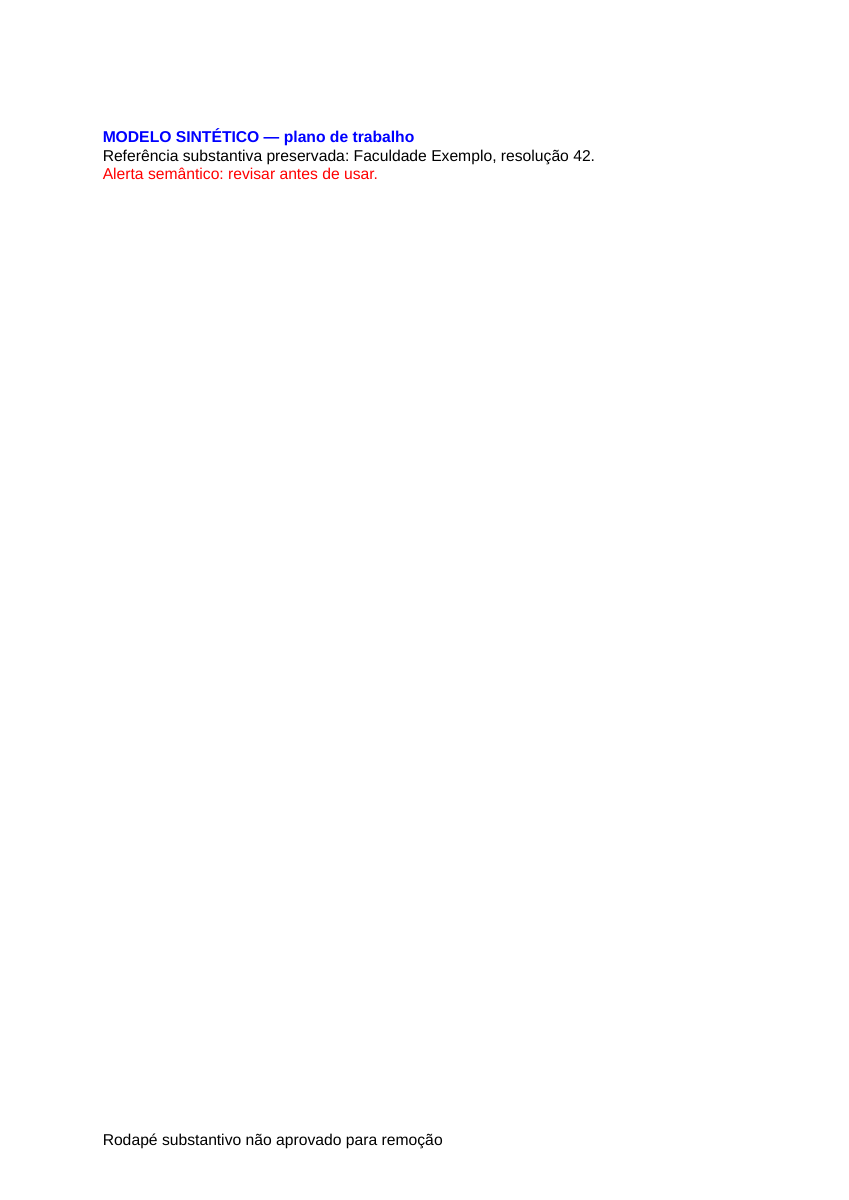
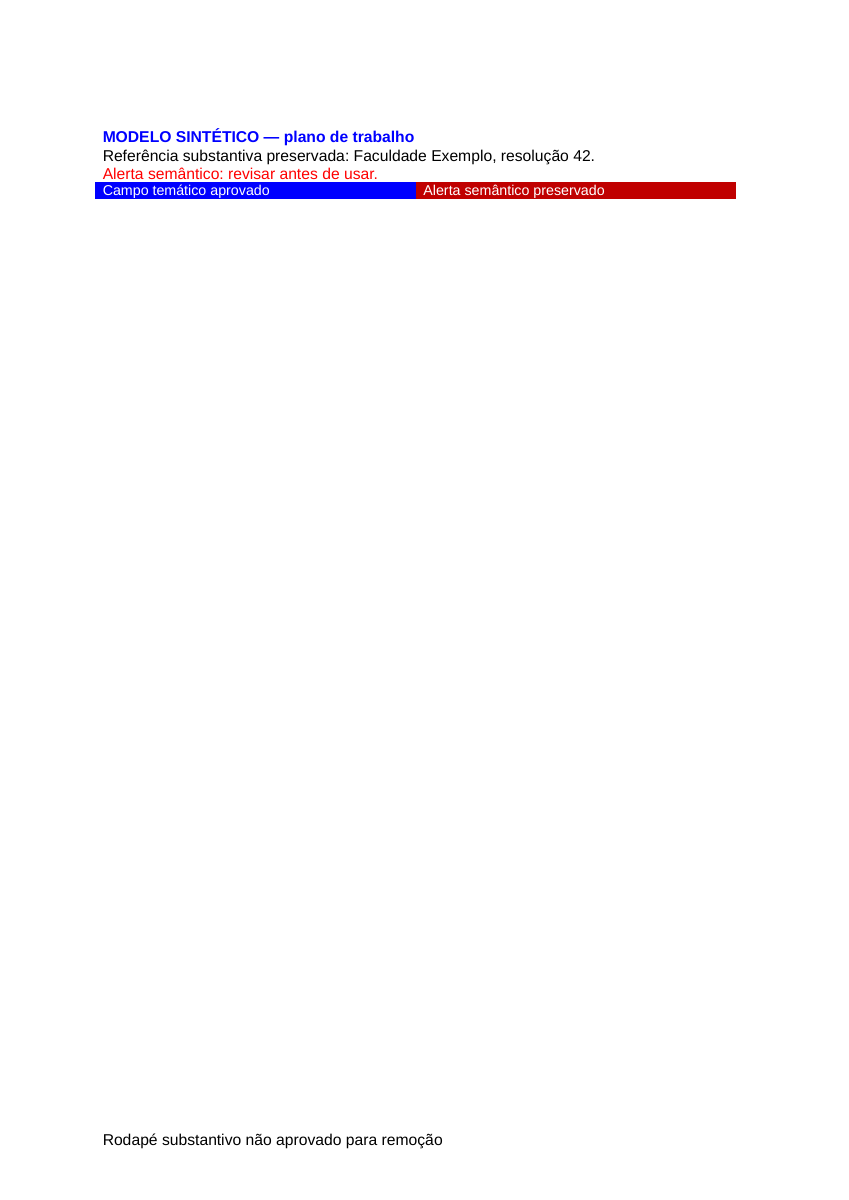
Validate themed table cells alongside preserved semantic alerts

Changed region(s): [[0.0919, 0.1542, 0.8881, 0.185]]

diff --git a/scripts/branding/document-template.test.ts b/scripts/branding/document-template.test.ts
@@ -11,11 +11,11 @@ export async function fixture() {
   const xml: Record<string,string> = {
     '[Content_Types].xml': '<Types xmlns="http://schemas.openxmlformats.org/package/2006/content-types"><Default Extension="rels" ContentType="application/vnd.openxmlformats-package.relationships+xml"/><Default Extension="xml" ContentType="application/xml"/><Override PartName="/word/document.xml" ContentType="application/vnd.openxmlformats-officedocument.wordprocessingml.document.main+xml"/><Override PartName="/word/header1.xml" ContentType="application/vnd.openxmlformats-officedocument.wordprocessingml.header+xml"/><Override PartName="/word/footer1.xml" ContentType="application/vnd.openxmlformats-officedocument.wordprocessingml.footer+xml"/><Override PartName="/word/styles.xml" ContentType="application/vnd.openxmlformats-officedocument.wordprocessingml.styles+xml"/></Types>',
     '_rels/.rels': `<Relationships xmlns="${R}"><Relationship Id="rId1" Type="http://schemas.openxmlformats.org/officeDocument/2006/relationships/officeDocument" Target="word/document.xml"/></Relationships>`,
-    'word/document.xml': `<w:document xmlns:w="${W}" xmlns:r="http://schemas.openxmlformats.org/officeDocument/2006/relationships"><w:body><w:p><w:pPr><w:pStyle w:val="InstitutionAccent"/></w:pPr><w:r><w:t>MODELO SINTÉTICO — plano de trabalho</w:t></w:r></w:p><w:p><w:r><w:t>Referência substantiva preservada: Faculdade Exemplo, resolução 42.</w:t></w:r></w:p><w:p><w:pPr><w:pStyle w:val="SemanticWarning"/></w:pPr><w:r><w:t>Alerta semântico: revisar antes de usar.</w:t></w:r></w:p><w:sectPr><w:headerReference w:type="default" r:id="rIdHeader"/><w:footerReference w:type="default" r:id="rIdFooter"/><w:pgSz w:w="11906" w:h="16838"/><w:pgMar w:top="1800" w:right="1440" w:bottom="1440" w:left="1440" w:header="600" w:footer="720"/></w:sectPr></w:body></w:document>`,
+    'word/document.xml': `<w:document xmlns:w="${W}" xmlns:r="http://schemas.openxmlformats.org/officeDocument/2006/relationships"><w:body><w:p><w:pPr><w:pStyle w:val="InstitutionAccent"/></w:pPr><w:r><w:t>MODELO SINTÉTICO — plano de trabalho</w:t></w:r></w:p><w:p><w:r><w:t>Referência substantiva preservada: Faculdade Exemplo, resolução 42.</w:t></w:r></w:p><w:p><w:pPr><w:pStyle w:val="SemanticWarning"/></w:pPr><w:r><w:t>Alerta semântico: revisar antes de usar.</w:t></w:r></w:p><w:tbl><w:tblPr><w:tblStyle w:val="InstitutionTable"/><w:tblW w:w="9000" w:type="dxa"/></w:tblPr><w:tblGrid><w:gridCol w:w="4500"/><w:gridCol w:w="4500"/></w:tblGrid><w:tr><w:tc><w:tcPr><w:tcW w:w="4500" w:type="dxa"/></w:tcPr><w:p><w:r><w:t>Campo temático aprovado</w:t></w:r></w:p></w:tc><w:tc><w:tcPr><w:tcW w:w="4500" w:type="dxa"/><w:shd w:val="clear" w:fill="C00000"/></w:tcPr><w:p><w:r><w:rPr><w:color w:val="FFFFFF"/></w:rPr><w:t>Alerta semântico preservado</w:t></w:r></w:p></w:tc></w:tr></w:tbl><w:p/><w:sectPr><w:headerReference w:type="default" r:id="rIdHeader"/><w:footerReference w:type="default" r:id="rIdFooter"/><w:pgSz w:w="11906" w:h="16838"/><w:pgMar w:top="1800" w:right="1440" w:bottom="1440" w:left="1440" w:header="600" w:footer="720"/></w:sectPr></w:body></w:document>`,
     'word/_rels/document.xml.rels': `<Relationships xmlns="${R}"><Relationship Id="rIdHeader" Type="http://schemas.openxmlformats.org/officeDocument/2006/relationships/header" Target="header1.xml"/><Relationship Id="rIdFooter" Type="http://schemas.openxmlformats.org/officeDocument/2006/relationships/footer" Target="footer1.xml"/><Relationship Id="rIdStyles" Type="http://schemas.openxmlformats.org/officeDocument/2006/relationships/styles" Target="styles.xml"/></Relationships>`,
     'word/header1.xml': `<w:hdr xmlns:w="${W}"><w:p><w:r><w:t>Cabeçalho antigo sintético</w:t></w:r></w:p></w:hdr>`,
     'word/footer1.xml': `<w:ftr xmlns:w="${W}"><w:p><w:r><w:t>Rodapé substantivo não aprovado para remoção</w:t></w:r></w:p></w:ftr>`,
-    'word/styles.xml': `<w:styles xmlns:w="${W}"><w:style w:type="paragraph" w:styleId="InstitutionAccent"><w:name w:val="InstitutionAccent"/><w:rPr><w:rFonts w:ascii="Liberation Sans"/><w:b/><w:color w:val="0000FF"/></w:rPr></w:style><w:style w:type="paragraph" w:styleId="SemanticWarning"><w:name w:val="SemanticWarning"/><w:rPr><w:color w:val="FF0000"/></w:rPr></w:style></w:styles>`,
+    'word/styles.xml': `<w:styles xmlns:w="${W}"><w:style w:type="paragraph" w:styleId="InstitutionAccent"><w:name w:val="InstitutionAccent"/><w:rPr><w:rFonts w:ascii="Liberation Sans"/><w:b/><w:color w:val="0000FF"/></w:rPr></w:style><w:style w:type="paragraph" w:styleId="SemanticWarning"><w:name w:val="SemanticWarning"/><w:rPr><w:color w:val="FF0000"/></w:rPr></w:style><w:style w:type="table" w:styleId="InstitutionTable"><w:name w:val="InstitutionTable"/><w:tcPr><w:shd w:val="clear" w:fill="0000FF"/></w:tcPr></w:style></w:styles>`,
     'docProps/core.xml': '<cp:coreProperties xmlns:cp="http://schemas.openxmlformats.org/package/2006/metadata/core-properties"/>',
   };
   const files = Object.fromEntries(Object.entries(xml).map(([k,v])=>[k,strToU8(v)]));
@@ -24,7 +24,7 @@ export async function fixture() {
   files['word/media/semantic.png'] = Uint8Array.from(atob(logoData().split(',')[1]),c=>c.charCodeAt(0));
   files['word/charts/chart1.xml'] = strToU8('<c:chartSpace xmlns:c="http://schemas.openxmlformats.org/drawingml/2006/chart"><c:chart><c:title/></c:chart></c:chartSpace>');
   const source = zipSync(files,{mtime:new Date('2000-01-01T00:00:00Z')});
-  const manifest: Manifest = { classification:'reviewed-template', source_sha256:await sha256(source), review_ref:'synthetic-review-1', replace_headers:['word/header1.xml'], clear_footers:[], theme_style_ids:['InstitutionAccent'], preserved_parts_review:{'docProps/core.xml':await sha256(files['docProps/core.xml']), 'word/media/semantic.png':await sha256(files['word/media/semantic.png'])} };
+  const manifest: Manifest = { classification:'reviewed-template', source_sha256:await sha256(source), review_ref:'synthetic-review-1', replace_headers:['word/header1.xml'], clear_footers:[], theme_style_ids:['InstitutionAccent','InstitutionTable'], preserved_parts_review:{'docProps/core.xml':await sha256(files['docProps/core.xml']), 'word/media/semantic.png':await sha256(files['word/media/semantic.png'])} };
   const template = await prepareTemplate(source,manifest);
   const expected = { template_sha256:await sha256(template), template_source_sha256:manifest.source_sha256, template_review_ref:manifest.review_ref };
   return { source,files,manifest,template,expected };
@@ -51,7 +51,8 @@ Deno.test('personalization is repeatable, XML-safe and changes only reviewed sty
  assert.deepEqual(a,again);const out=unpack(a);
  for(const n of ['word/document.xml','word/footer1.xml','word/fonts/synthetic-font.bin','word/media/semantic.png','word/charts/chart1.xml']) assert.deepEqual(out[n],f.files[n]);
  const header=strFromU8(out['word/header1.xml']);assert(header.includes('&amp;'));assert(header.includes('&lt;Educação&gt;'));assert.equal((header.match(/<w:tbl>/g)||[]).length,1);assert(header.includes('1250'));assert(header.includes('3750'));
- const styles=strFromU8(out['word/styles.xml']);assert(styles.includes('w:val="FF0000"'));assert(styles.includes('Liberation Sans'));assert(!styles.includes('w:val="0000FF"'));
+ const styles=strFromU8(out['word/styles.xml']);assert(styles.includes('w:val="FF0000"'));assert(styles.includes('Liberation Sans'));assert(!styles.includes('w:val="0000FF"'));assert(styles.includes('w:fill="FF8800"'));assert(strFromU8(out['word/document.xml']).includes('w:fill="C00000"'));
+ const tableStyle=styles.split('w:styleId="InstitutionTable"')[1];assert(tableStyle.indexOf('<w:rPr>')<tableStyle.indexOf('<w:tcPr>'));
  const noLogo=unpack(await personalizeTemplate(f.template,empty,f.expected));assert(!noLogo['word/media/vertice-branding-logo.png']);
  assert(!strFromU8(noLogo['word/header1.xml']).includes('IES A'));
  await assert.rejects(()=>personalizeTemplate(f.template,b,{...f.expected,template_sha256:'0'.repeat(64)}));

diff --git a/supabase/functions/_shared/document-template.ts b/supabase/functions/_shared/document-template.ts
@@ -151,7 +151,11 @@ export async function personalizeTemplate(template: Uint8Array, b: Branding, exp
       const style = Array.from(doc.getElementsByTagNameNS(W, 'style')).find(e => e.getAttributeNS(W, 'styleId') === id);
       if (!style) throw new Error('Missing approved style');
       let rPr = Array.from(style.childNodes).find(e => e.nodeType === 1 && e.localName === 'rPr');
-      if (!rPr) { rPr = doc.createElementNS(W, 'w:rPr'); style.appendChild(rPr); }
+      if (!rPr) {
+        rPr = doc.createElementNS(W, 'w:rPr');
+        const next = Array.from(style.childNodes).find(e => e.nodeType === 1 && ['tblPr','trPr','tcPr','tblStylePr'].includes(e.localName ?? ''));
+        style.insertBefore(rPr, next ?? null);
+      }
       const oldColors = Array.from(rPr.childNodes).filter(e => e.nodeType === 1 && e.localName === 'color');
       oldColors.forEach(e => rPr!.removeChild(e));
       const shading = Array.from(style.getElementsByTagNameNS(W, 'shd'));

diff --git a/docs/INSTITUTION_DOCUMENT_BRANDING.md b/docs/INSTITUTION_DOCUMENT_BRANDING.md
@@ -13,6 +13,19 @@ Reconstrução a partir do remoto, sem arquivos do desktop e sem acesso a docume
 - DOCX preparado exige caminho separado `<institution_id>/templates/<template_sha256>.docx`, hash do template, hash da fonte igual ao cadastro e referência editorial. A fonte atual também é baixada e verificada antes da personalização. Falha de hash/revisão/auditoria impede a entrega. Nenhuma cópia personalizada é salva no Storage.
 - Cor somente nos estilos enumerados; cores semânticas, formatação direta, corpo, fontes, gráficos, imagens e rodapés não aprovados permanecem preservados. Todas as cópias partem do template imutável, evitando cabeçalhos acumulados.
 
+## Alcance exato das cores
+
+| Elemento | Suporte neste patch |
+| --- | --- |
+| Texto do cabeçalho gerado | Cor institucional ajustada para contraste sobre branco |
+| Faixa/fundo do cabeçalho | Não é criada nem colorida automaticamente |
+| Estilo de parágrafo/caractere listado | Cor de texto e sombreamentos `w:shd` daquele estilo |
+| Estilo de tabela listado | Preenchimento de célula definido no estilo (`w:tcPr/w:shd`) e cor de texto herdada, sem alterar o corpo |
+| Preenchimento direto de célula/trecho no corpo | Preservado; não há seletor de células nem substituição global |
+| Alerta/estilo não marcado | Preservado |
+
+A fixture inclui uma tabela `InstitutionTable` aprovada com uma célula temática e outra célula com alerta vermelho direto não marcado. Os testes confirmam corpo byte a byte e cor vermelha intactos; a renderização confirma célula temática laranja/amarela, conforme HEX, ao lado do alerta vermelho. A variante sem cor conserva o preenchimento azul original do estilo. Na revisão, migrar editorialmente campos que precisem de tema para estilos apropriados; este mecanismo não promete colorir toda formatação direta existente. A ordenação XML de `w:rPr` foi validada antes de `w:tcPr`/propriedades de tabela.
+
 ## Segurança e integração pendentes
 
 **Não aplicar nem publicar automaticamente.** `supabase/review/institution_document_branding.sql` é SQL de revisão, intencionalmente fora de `migrations/`. Após a revisão e conciliação, gerar a migração pela CLI, revisar os grants e aplicar na ordem coordenada: banco, função, frontend. Não houve deploy, merge, alteração de dados reais, habilitação de arquivo ou política de Storage nova.
@@ -94,7 +107,7 @@ PostgreSQL 17 descartável em Docker, com `scripts/branding/bootstrap-test-db.sq
 - `supabase/tests/inep_library.sql`: aprovado; tenant/inativos/MFA/externo/anon/Storage/escrita no catálogo.
 - `python3 scripts/branding/test-concurrency.py`: dois escritores simultâneos com a mesma versão; exatamente um grava, o outro recebe conflito. Script aponta exclusivamente ao container descartável `vertice-branding-postgres`.
 
-Fixtures visuais geradas por `scripts/branding/render-fixtures.ts`; convertidas em PDF pelo LibreOffice headless e rasterizadas pelo `pdftoppm`. Inspeção visual confirmou cabeçalho, texto longo, ausência de logo, alerta vermelho preservado e rodapé substantivo preservado. Não representam validação de todos os arquivos reais.
+Fixtures visuais geradas por `scripts/branding/render-fixtures.ts`; convertidas em PDF pelo LibreOffice headless e rasterizadas pelo `pdftoppm`. Inspeção visual confirmou cabeçalho, texto longo, ausência de logo, célula temática colorida ao lado de alerta vermelho preservado e rodapé substantivo preservado. Não representam validação de todos os arquivos reais.
 
 ![Cabeçalho normal e alerta semântico preservado](branding-validation/normal.png)
 ![Sem logo nem texto de cabeçalho](branding-validation/absent.png)
